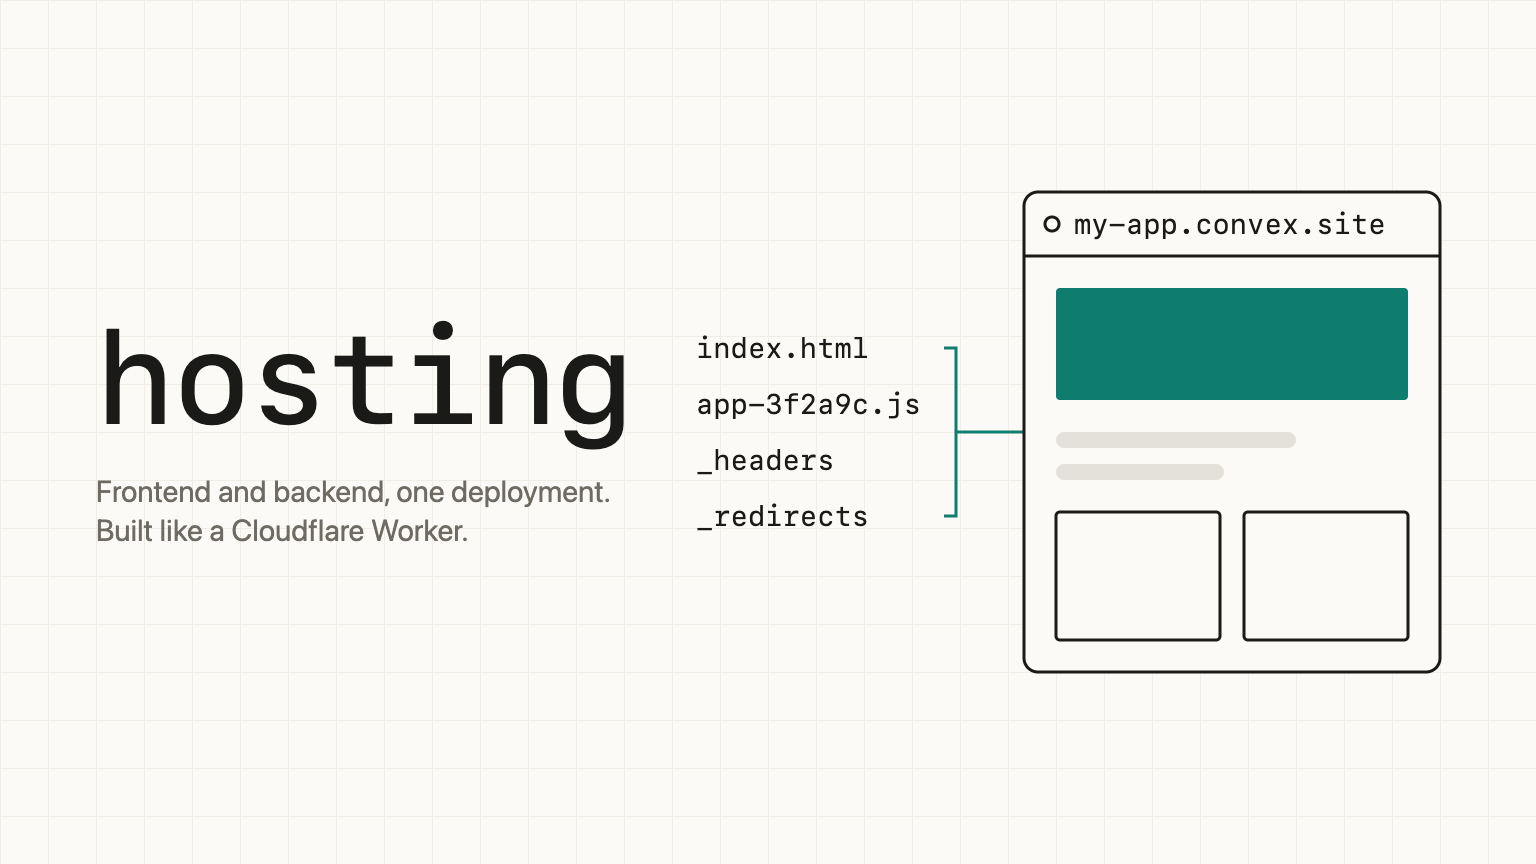
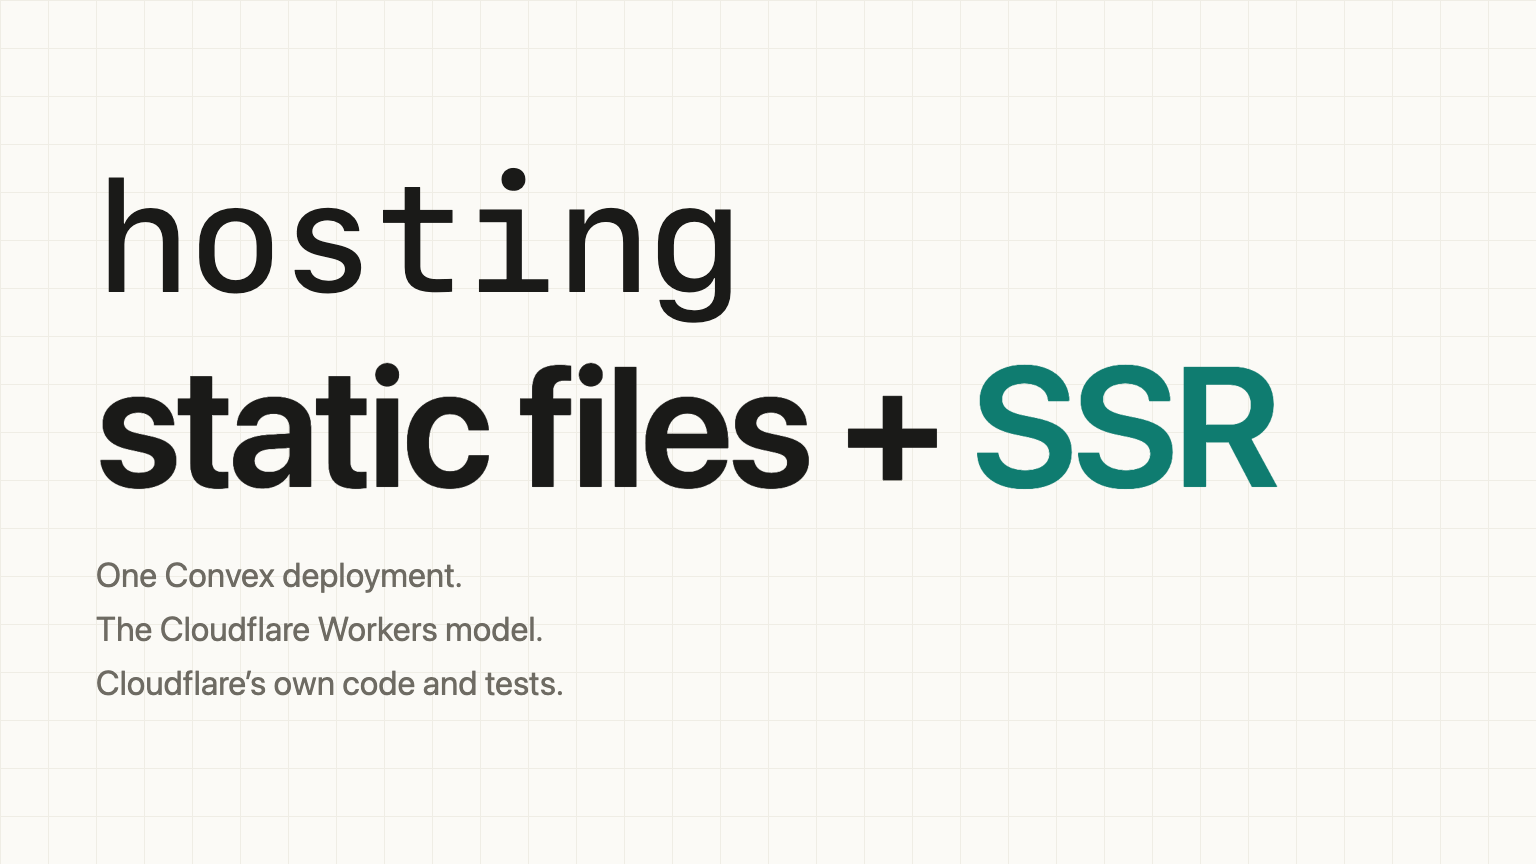
docs/directory: the static files + SSR card

diff --git a/docs/directory/thumbnail.html b/docs/directory/thumbnail.html
@@ -3,7 +3,7 @@
 <html lang="en">
   <head>
     <meta charset="utf-8" />
-    <title>Hosting thumbnail, light v3</title>
+    <title>Hosting thumbnail, r4 three lines</title>
     <style>
       @font-face {
         font-family: "SF Mono Local";
@@ -46,7 +46,6 @@
         left: 96px;
         top: 0;
         height: 864px;
-        width: 640px;
         display: flex;
         flex-direction: column;
         justify-content: center;
@@ -54,27 +53,43 @@
       .name {
         font-family: var(--mono);
         font-weight: 500;
-        font-size: 128px;
         line-height: 1;
         letter-spacing: -0.02em;
         color: var(--ink);
       }
       .tagline {
-        margin-top: 28px;
         font-family: var(--sans);
-        font-size: 30px;
         line-height: 1.3;
         color: var(--muted);
+        white-space: nowrap;
       }
-      .files text {
+      .mono {
         font-family: var(--mono);
-        font-size: 28px;
         fill: var(--ink);
       }
-      .address {
-        font-family: var(--mono);
-        font-size: 28px;
-        fill: var(--ink);
+      .accent {
+        color: var(--accent);
+        fill: var(--accent);
+      }
+      .name {
+        font-size: 154px;
+      }
+      .big {
+        margin-top: 24px;
+        font-family: var(--sans);
+        font-weight: 600;
+        font-size: 170px;
+        line-height: 1;
+        letter-spacing: -0.025em;
+        color: var(--ink);
+        white-space: nowrap;
+      }
+      .tagline {
+        margin-top: 44px;
+        font-size: 34px;
+      }
+      .tagline + .tagline {
+        margin-top: 10px;
       }
     </style>
   </head>
@@ -86,65 +101,13 @@
         </pattern>
       </defs>
       <rect width="1536" height="864" fill="url(#grid)" />
-
-      <g class="files">
-        <text x="696" y="348" dominant-baseline="central">index.html</text>
-        <text x="696" y="404" dominant-baseline="central">app-3f2a9c.js</text>
-        <text x="696" y="460" dominant-baseline="central">_headers</text>
-        <text x="696" y="516" dominant-baseline="central">_redirects</text>
-      </g>
-      <path
-        d="M944 348H956V516H944M956 432H1024"
-        fill="none"
-        stroke="var(--accent)"
-        stroke-width="3"
-      />
-
-      <rect
-        x="1024"
-        y="192"
-        width="416"
-        height="480"
-        rx="14"
-        fill="var(--bg)"
-        stroke="var(--ink)"
-        stroke-width="3"
-      />
-      <path d="M1024 256H1440" stroke="var(--ink)" stroke-width="3" />
-      <circle cx="1052" cy="224" r="7" fill="none" stroke="var(--ink)" stroke-width="3" />
-      <text class="address" x="1074" y="224" dominant-baseline="central">my-app.convex.site</text>
-
-      <rect x="1056" y="288" width="352" height="112" rx="4" fill="var(--accent)" />
-      <rect x="1056" y="432" width="240" height="16" rx="8" fill="var(--soft)" />
-      <rect x="1056" y="464" width="168" height="16" rx="8" fill="var(--soft)" />
-      <rect
-        x="1056"
-        y="512"
-        width="164"
-        height="128"
-        rx="4"
-        fill="none"
-        stroke="var(--ink)"
-        stroke-width="3"
-      />
-      <rect
-        x="1244"
-        y="512"
-        width="164"
-        height="128"
-        rx="4"
-        fill="none"
-        stroke="var(--ink)"
-        stroke-width="3"
-      />
     </svg>
     <div class="text">
       <div class="name">hosting</div>
-      <div class="tagline">
-        <span>Frontend and backend, one deployment.</span><br /><span
-          >Built like a Cloudflare Worker.</span
-        >
-      </div>
+      <div class="big">static files + <span class="accent">SSR</span></div>
+      <div class="tagline">One Convex deployment.</div>
+      <div class="tagline">The Cloudflare Workers model.</div>
+      <div class="tagline">Cloudflare’s own code and tests.</div>
     </div>
   </body>
 </html>

diff --git a/docs/directory/README.md b/docs/directory/README.md
@@ -16,19 +16,22 @@ https://www.convex.dev/components/submit.
 | Logo                               | [docs/directory/logo.svg](./logo.svg), the Samebase mark (compact identity, `logo-v1-side-primary.svg` in samebase/samebase), transparent background   |
 | Thumbnail                          | [docs/directory/thumbnail.png](./thumbnail.png) (1536 x 864)                                                                                           |
 
-`thumbnail.html` is the source of `thumbnail.png`; its first comment has the render command.
+The thumbnail reads `hosting`, then "static files + SSR" with SSR in the accent color, then three
+small lines: "One Convex deployment.", "The Cloudflare Workers model.", and "Cloudflare's own code
+and tests." `thumbnail.html` is its source; its first comment has the render command.
 
 ## Why these values
 
 - Name: directory names are capability nouns, and "Hosting" matches `components.hosting`, the
-  repository, and the package. The Cloudflare Workers relationship goes into the tagline and the
+  repository, and the package. The Cloudflare Workers relationship goes into the thumbnail and the
   description, not the name, because in the directory "Worker" means a job runner, next to Convex's
   Workpool and Batch Worker.
 - Repository URL: the repository root, because the package folder has no tracked README. The
   package's `prepack` script copies the root README into the package.
-- Thumbnail tagline: "Frontend and backend, one deployment. Built like a Cloudflare Worker." The
-  benefit comes first, Cloudflare is the trust line, and portability is the evidence. It comes from
-  a Codex review and two cold-reader tests on 2026-10-17.
+- Thumbnail: the headline "static files + SSR" makes the difference from Static-Hosting legible at
+  the 300 px width of the directory grid. Four cold readers and a critic ranked it first on
+  2026-10-18. The three small lines are facts that the [repository README](../../README.md) proves.
+  The card has no illustration, because readers took "static files + SSR" from the headline alone.
 
 ## Announcement
 
